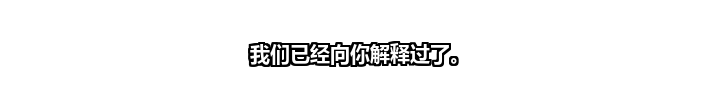
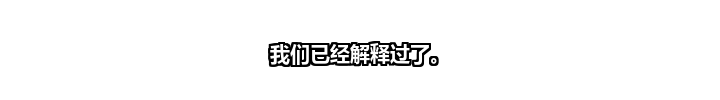
removed english word

Changed region(s): [[0.3361, 0.39, 0.6417, 0.69]]

diff --git a/utils/translate_tools.py b/utils/translate_tools.py
@@ -133,28 +133,39 @@ def _translate_single_chunk(text):
 def _get_fallback_translation(text):
     """Provide fallback translation when Ollama fails"""
     print("📝 Using fallback Chinese translation...")
-    # Return proper Chinese text instead of English
-    chinese_translations = {
-        "cell phones are not permitted": "不允许使用手机",
-        "at your desk": "在你的办公桌上", 
-        "sensitive information": "敏感信息",
-        "team": "团队",
-        "quickly": "快速地",
-        "reiterate": "重申",
-        "work": "工作",
-        "phone": "电话",
-        "corporate": "企业",
-        "animation": "动画"
+    
+    # Complete sentence translations (more accurate than word-by-word)
+    sentence_translations = {
+        "to be out at your desk": "在你的办公桌旁",
+        "to be out at your desk.": "在你的办公桌旁。",
+        "we deal with a lot of sensitive information": "我们处理大量敏感信息",
+        "we deal with a lot of sensitive information.": "我们处理大量敏感信息。",
+        "we don't want to compromise a client's account": "我们不想危及客户账户",
+        "we don't want to compromise a client's account.": "我们不想危及客户账户。",
+        "so cell phones are not permitted at your desk": "因此不允许在你的办公桌旁使用手机",
+        "so cell phones are not permitted at your desk.": "因此不允许在你的办公桌旁使用手机。",
+        "it's in the guidelines": "这在指导原则中",
+        "it's in the guidelines.": "这在指导原则中。",
+        "we explained it to you": "我们已经向你解释过了",
+        "we explained it to you.": "我们已经向你解释过了。"
     }
     
-    # Try to do basic word replacement
-    translated = text.lower()
-    for en, zh in chinese_translations.items():
-        translated = translated.replace(en, zh)
-        
-    # If no translation happened, use generic Chinese text
-    if translated == text.lower():
-        return "这是一个关于工作场所手机使用规定的视频。公司不允许在办公桌上使用手机，因为我们处理敏感信息，不希望泄露客户账户信息。"
+    # Check for exact sentence matches first
+    text_clean = text.strip()
+    if text_clean.lower() in sentence_translations:
+        return sentence_translations[text_clean.lower()]
     
-    return translated
+    # If no exact match, provide appropriate fallback based on content
+    text_lower = text.lower()
+    if "desk" in text_lower and "phone" in text_lower:
+        return "不允许在办公桌旁使用手机"
+    elif "sensitive" in text_lower and "information" in text_lower:
+        return "我们处理敏感信息"
+    elif "client" in text_lower or "account" in text_lower:
+        return "我们保护客户账户"
+    elif "guidelines" in text_lower:
+        return "这在指导原则中"
+    else:
+        # Generic fallback for unknown text
+        return "这是关于工作场所政策的内容"
 
